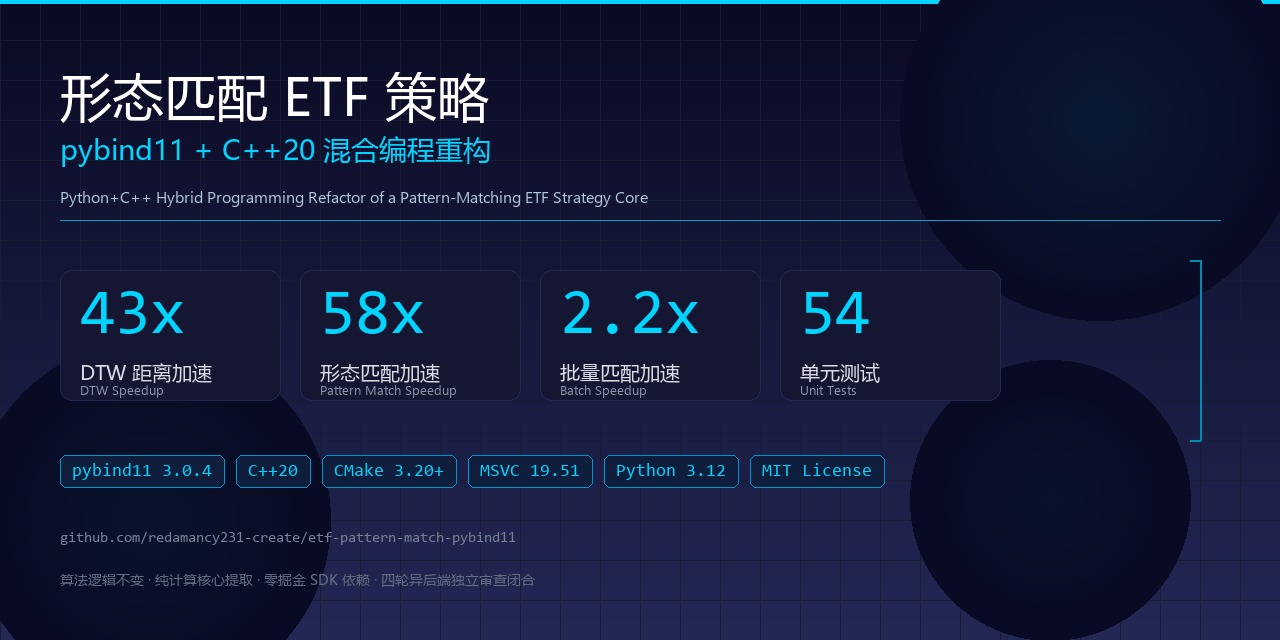
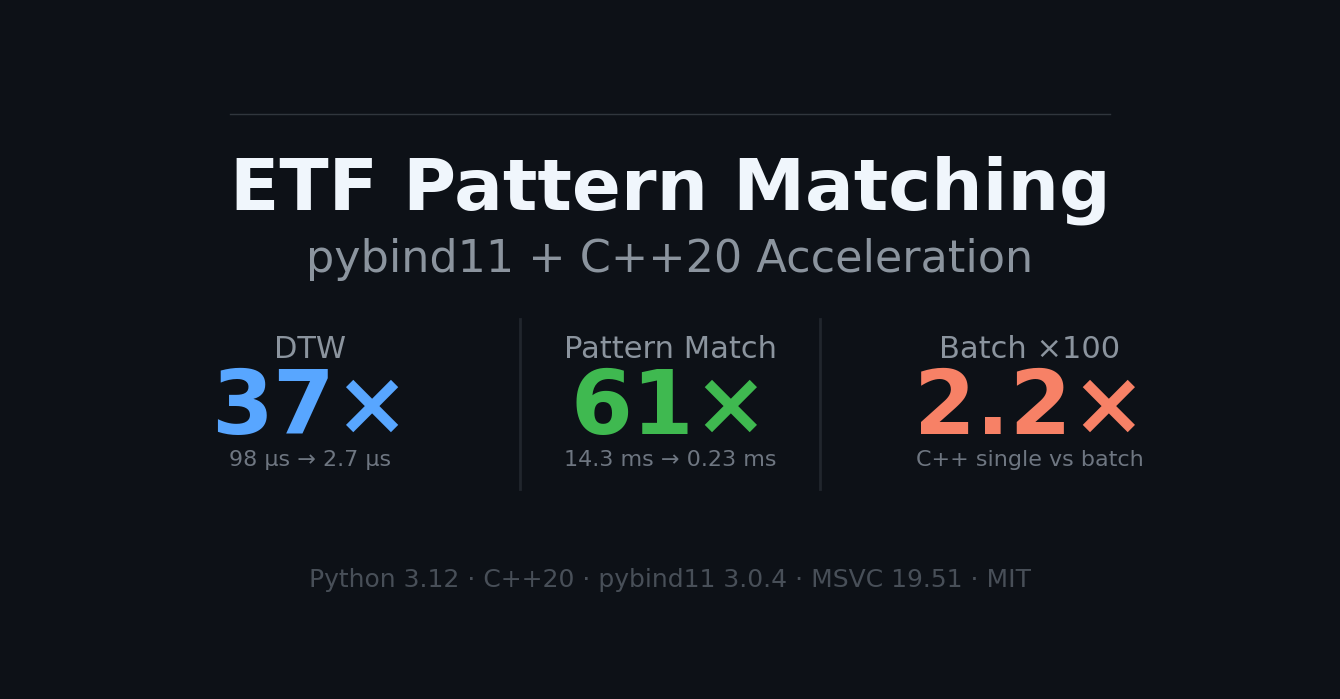
docs: update repo description, social preview, and README structure
- Repo description: 43x→37x, 58x→61x
- Regenerate social-preview.png with current speedup numbers
- Fix duplicate src/cpp/ line, 7→8 functions

diff --git a/README.md b/README.md
@@ -95,8 +95,7 @@ jupyter notebook notebooks/etf_pattern_matching_demo.ipynb
 │   ├── risk_controls.py        # Risk control rules (pure computation)
 │   └── metrics.py              # Sortino / Calmar / IC statistics
 ├── src/cpp/
-├── src/cpp/
-│   ├── etf_core.cpp            # Unified C++ acceleration module (7 functions, ~1,000 lines)
+│   ├── etf_core.cpp            # Unified C++ acceleration module (8 functions, ~1,100 lines)
 │   └── pyi/etf_core.pyi        # Type stubs
 ├── tests/                      # 54 unit tests
 ├── notebooks/